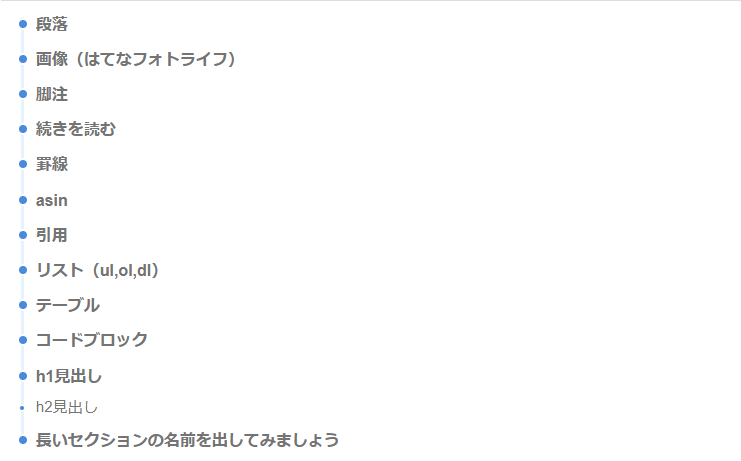
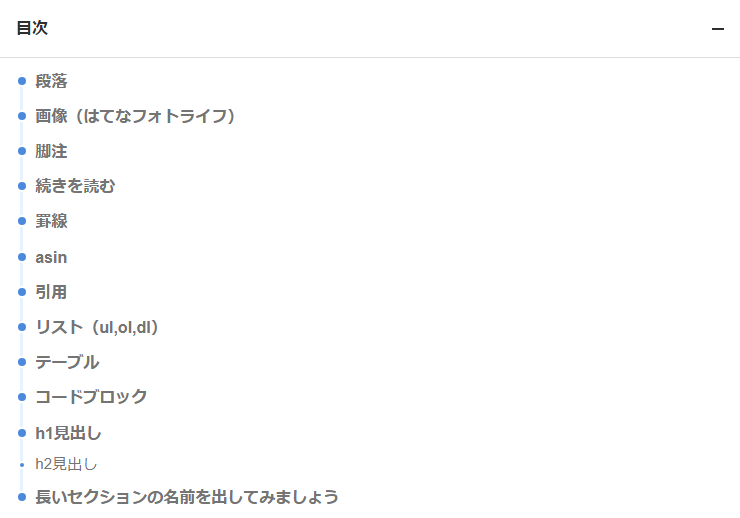
fix: toc screenshot

diff --git a/capture-toc-screenshots.js b/capture-toc-screenshots.js
@@ -72,16 +72,16 @@ import { chromium } from '@playwright/test';
       if (tocContentVisible) {
         console.log('目次コンテンツが表示されています');
 
-        // 目次の位置とサイズを取得
-        const tocBox = await page.locator('ul.table-of-contents').boundingBox();
-        console.log(`目次の位置: x=${tocBox.x}, y=${tocBox.y}, width=${tocBox.width}, height=${tocBox.height}`);
+        // 目次コンテナ全体（タイトルを含む）の位置とサイズを取得
+        const tocContainerBox = await page.locator('.toc-container').boundingBox();
+        console.log(`目次コンテナの位置: x=${tocContainerBox.x}, y=${tocContainerBox.y}, width=${tocContainerBox.width}, height=${tocContainerBox.height}`);
 
-        // 記事内目次のスクリーンショット
-        await page.locator('ul.table-of-contents').screenshot({
+        // 記事内目次のスクリーンショット（タイトルを含む全体）
+        await page.locator('.toc-container').screenshot({
           path: 'articles/screenshots/pc-toc.png',
           timeout: 5000
         });
-        console.log('記事内目次のスクリーンショットを保存しました');
+        console.log('記事内目次（全体）のスクリーンショットを保存しました');
       } else {
         console.log('目次コンテンツが表示されていません');
       }

diff --git a/tests/screenshot-capture.spec.js b/tests/screenshot-capture.spec.js
@@ -29,8 +29,8 @@ test.describe('Screenshot Capture', () => {
         await page.waitForTimeout(500); // アニメーション待機
       }
 
-      // 記事内目次のスクリーンショット
-      await page.locator('ul.table-of-contents').screenshot({ path: 'articles/screenshots/pc-toc.png' });
+      // 記事内目次のスクリーンショット（タイトルを含む全体）
+      await page.locator('.toc-container').screenshot({ path: 'articles/screenshots/pc-toc.png' });
 
       // スクロールして目次ボタンを表示させる（200px以上スクロールが必要）
       await page.evaluate(() => {
